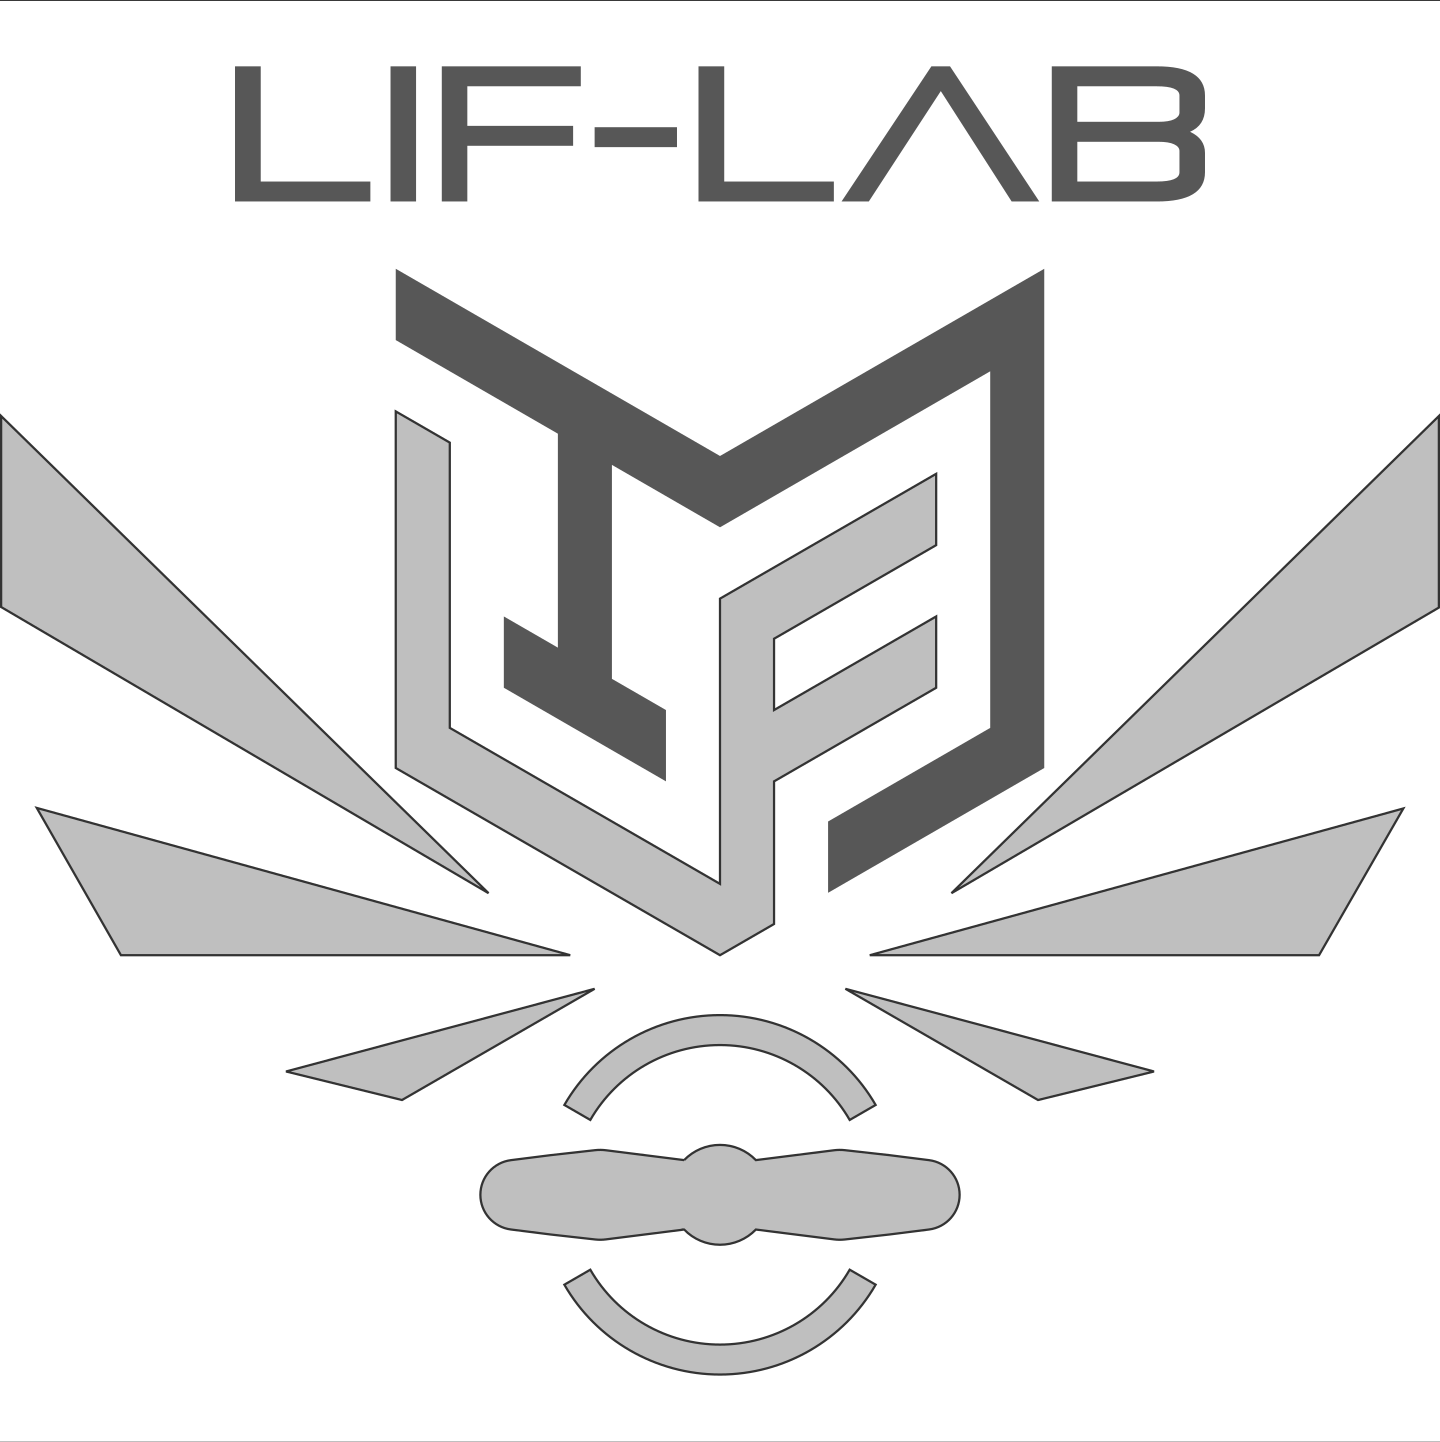
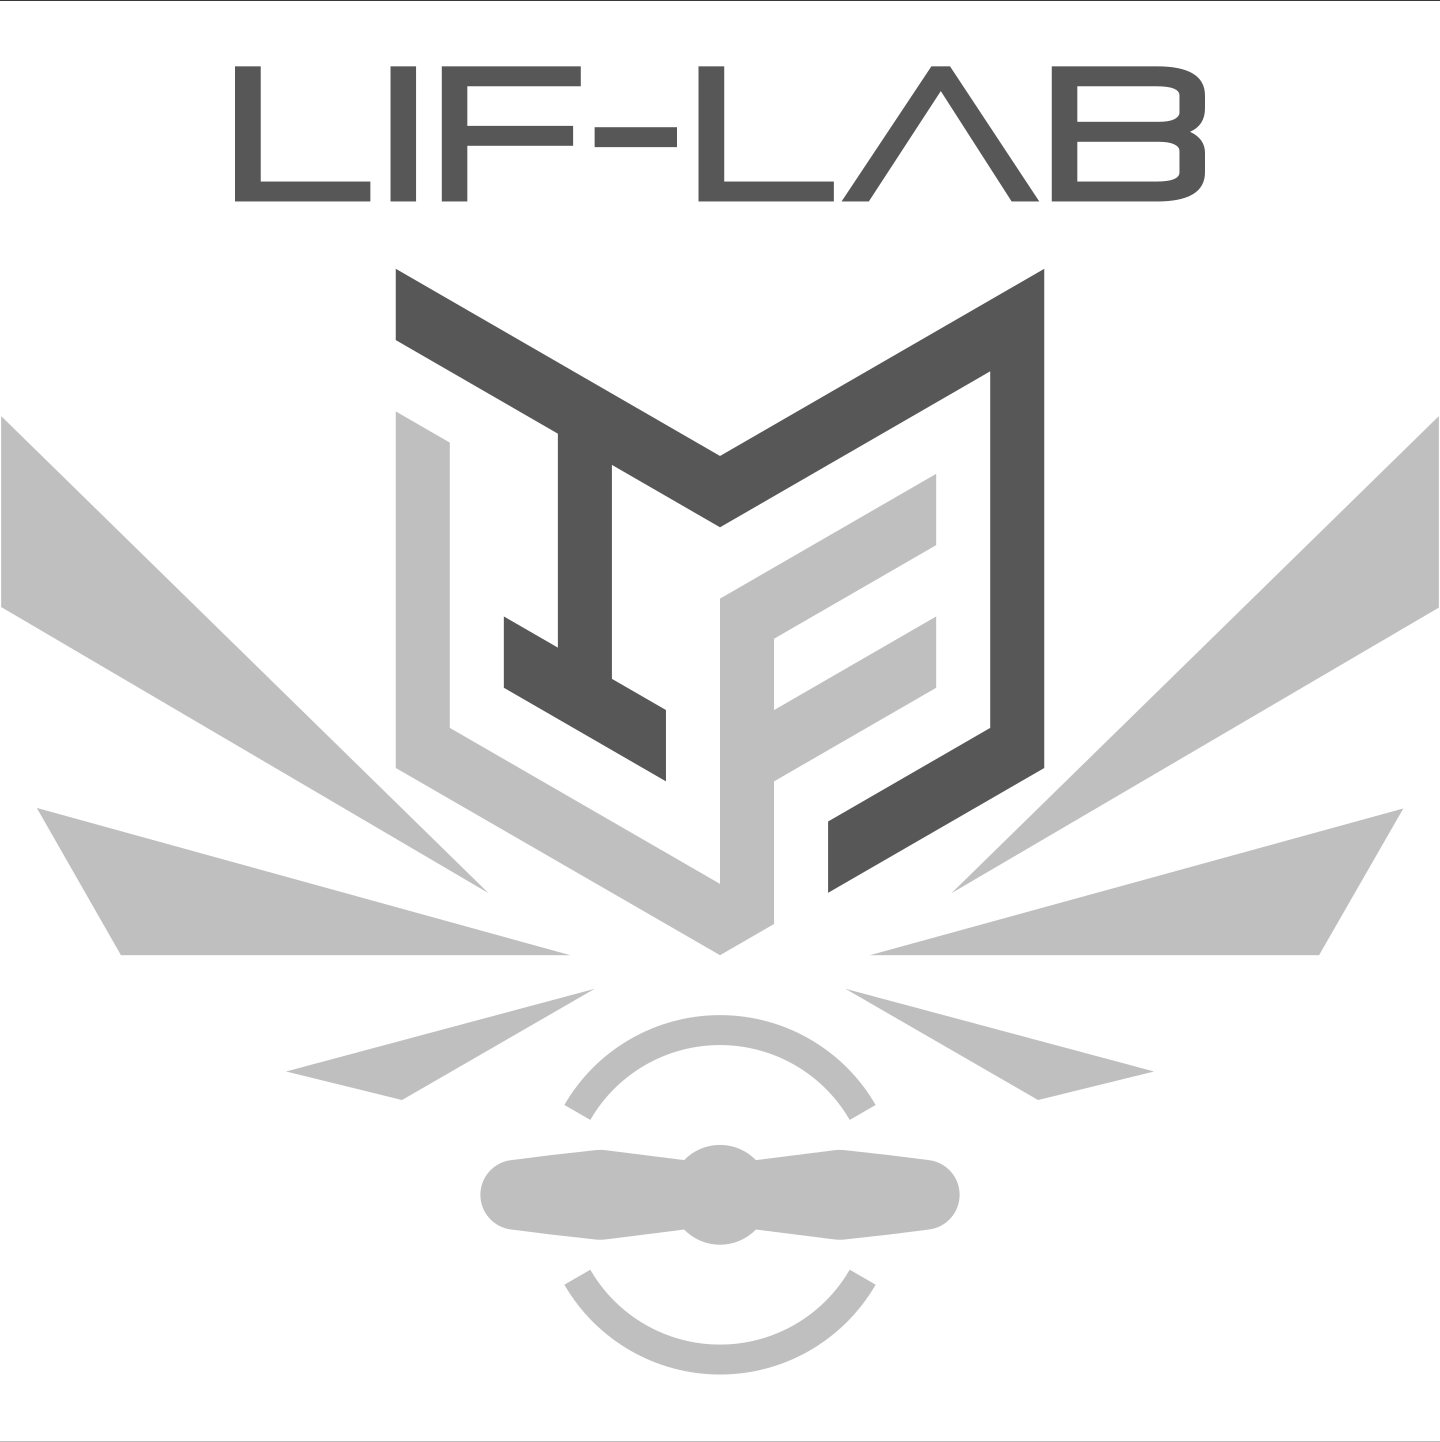
调整了一些莫名其妙的描边，细化了README

diff --git a/README.md b/README.md
@@ -3,3 +3,5 @@
 最后跟新：2024年1月9日
 
 作者：Reiky
+
+![1704787120611](image/README/1704787120611.png)
